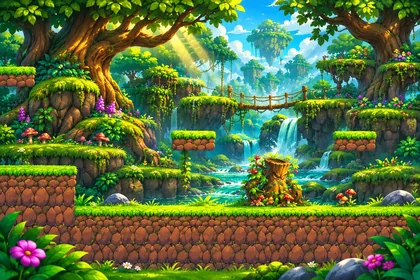
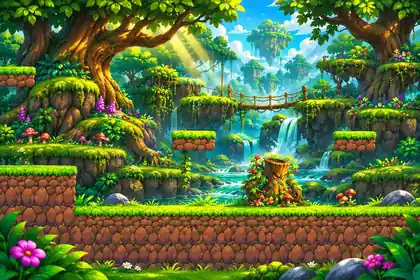
Otimiza as ilustrações de O Curioso para ecrãs móveis

diff --git a/sw.js b/sw.js
@@ -2,7 +2,7 @@
 
 const base = self.registration.scope;
 const prefix = 'humildadever-site:';
-const version = prefix + '19';
+const version = prefix + '20';
 const pages = [
   'index.html', 'apps.html', 'universe.html', 'academia.html', 'academia-sql.html',
   'academia-cursos.html', 'academia-web.html', 'academia-web-preview.html', 'o-curioso.html',
@@ -14,7 +14,7 @@ const assets = [
   'assets/portal.css', 'assets/oficina-web.css', 'assets/academia-cursos.css', 'assets/academia-cursos.js', 'assets/oficina-web.js', 'assets/catalogo.js', 'assets/academia.js',
   'assets/logotipo-192.webp',
   'assets/curioso-card-premium.webp', 'assets/curioso-galeria.js',
-  ...['banner-computador.webp', 'banner-telemovel.webp', 'cartao-catalogo.webp']
+  ...['banner-computador.webp', 'banner-telemovel.webp', 'banner-telemovel-640.webp', 'cartao-catalogo.webp', 'cartao-catalogo-600.webp']
     .map(file => `assets/curioso-arte/${file}`),
   ...Array.from({ length: 5 }, (_, index) => `assets/captura-curioso-${index + 1}-320.webp`),
   ...Array.from({ length: 6 }, (_, index) => index + 1)

diff --git a/o-curioso.html b/o-curioso.html
@@ -40,7 +40,7 @@
       <p>O Rei Rabugento roubou a Grande Gargalhada. Acompanha O Curioso numa aventura de plataformas 2D para devolver a alegria ao reino.</p>
       <div class="actions"><a class="action primary" href="https://play.google.com/store/apps/details?id=com.humildadever.ocurioso">Descarregar na Google Play</a><a class="action" href="#mundos">Explorar os seis mundos</a><a class="action" href="#capturas">Capturas do jogo</a></div>
     </div>
-    <img src="assets/curioso-arte/cartao-catalogo.webp" width="1200" height="900" alt="" fetchpriority="high">
+    <img src="assets/curioso-arte/cartao-catalogo-600.webp" srcset="assets/curioso-arte/cartao-catalogo-600.webp 600w, assets/curioso-arte/cartao-catalogo.webp 1200w" sizes="(max-width: 680px) calc(100vw - 64px), 420px" width="1200" height="900" alt="" fetchpriority="high">
   </header>
   <section id="capturas">
     <h2>Capturas do jogo</h2>

diff --git a/o-curioso-en.html b/o-curioso-en.html
@@ -41,7 +41,7 @@
       <p>The Grumpy King has stolen the Great Laugh. Join O Curioso in a 2D platforming adventure to bring joy back to the kingdom.</p>
       <div class="actions"><a class="action primary" href="https://play.google.com/store/apps/details?id=com.humildadever.ocurioso">Download on Google Play</a><a class="action" href="#mundos">Explore the six worlds</a><a class="action" href="#capturas">Game screenshots</a></div>
     </div>
-    <img src="assets/curioso-arte/cartao-catalogo.webp" width="1200" height="900" alt="" fetchpriority="high">
+    <img src="assets/curioso-arte/cartao-catalogo-600.webp" srcset="assets/curioso-arte/cartao-catalogo-600.webp 600w, assets/curioso-arte/cartao-catalogo.webp 1200w" sizes="(max-width: 680px) calc(100vw - 64px), 420px" width="1200" height="900" alt="" fetchpriority="high">
   </header>
   <section id="capturas">
     <h2>Game screenshots</h2>

diff --git a/apps.html b/apps.html
@@ -49,7 +49,7 @@
   </details>
   <div class="grid" id="projetos">
     <article class="panel project project-main" data-project="o-curioso" data-category="jogos" data-platform="android" data-status="publicado">
-      <img src="assets/curioso-arte/cartao-catalogo.webp" width="1200" height="900" alt="O Curioso de boné azul com o seu companheiro" loading="lazy" decoding="async">
+      <img src="assets/curioso-arte/cartao-catalogo-600.webp" srcset="assets/curioso-arte/cartao-catalogo-600.webp 600w, assets/curioso-arte/cartao-catalogo.webp 1200w" sizes="(max-width: 680px) calc(100vw - 64px), 380px" width="1200" height="900" alt="O Curioso de boné azul com o seu companheiro" loading="lazy" decoding="async">
       <div>
         <h2>O Curioso e o Reino das Gargalhadas</h2>
         <p class="small">Jogo principal do estúdio · Android</p>

diff --git a/index.html b/index.html
@@ -22,7 +22,7 @@
     </div>
   </div>
   <picture class="hero-art">
-    <source media="(max-width: 900px)" srcset="assets/curioso-arte/banner-telemovel.webp" width="1080" height="1080">
+    <source media="(max-width: 900px)" srcset="assets/curioso-arte/banner-telemovel-640.webp 640w, assets/curioso-arte/banner-telemovel.webp 1080w" sizes="(max-width: 376px) calc(100vw - 36px), 340px" width="1080" height="1080">
     <img class="hero-image" src="assets/curioso-arte/banner-computador.webp" width="1920" height="1080" alt="O Curioso e o seu cão saltam entre duas plataformas sobre um vale com cascatas." fetchpriority="high">
   </picture>
 </header>
